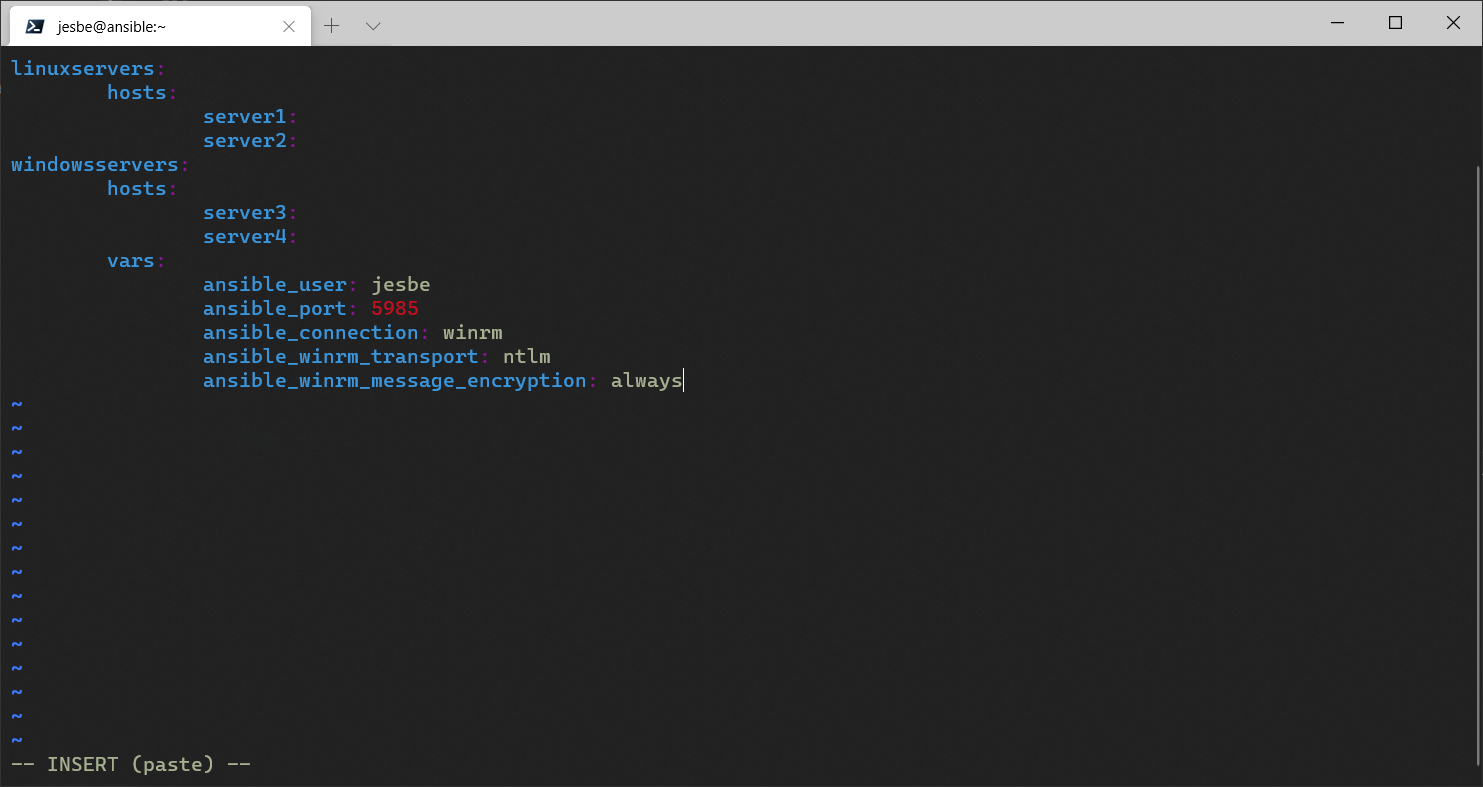
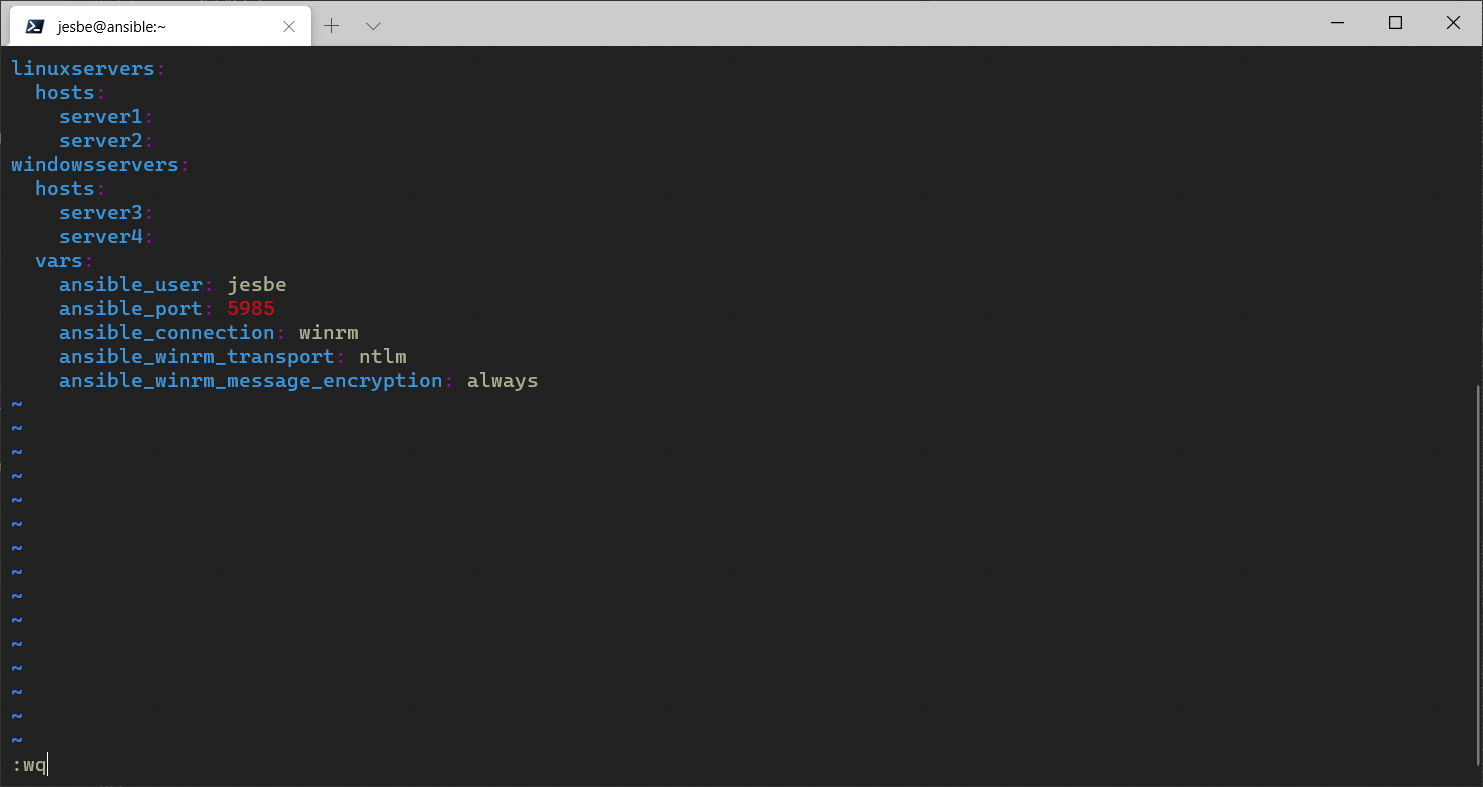
lab 2 updated

diff --git a/lab02/lab2.md b/lab02/lab2.md
@@ -133,14 +133,6 @@ Save the file (Ctrl + S)
 
 Click the Source control button in the left panel.
 
-Notice that there are three changes waiting
-
-* .gitignore
-* 01_linux.yml
-* settings.yml
-
-We need to commit the changes before .gitignore will ignore settings.yml
-
 ![Alt text](pics/016_code_playbook.png?raw=true "playbook in VSCode")
 
 Write a comment __"First Playbook__" and click "Ctrl + Enter" to commit the changes
@@ -472,19 +464,19 @@ We need to set an option in vi before pasteing the configuration
 ```ansible
 
 linuxservers:
-        hosts:
-                server1:
-                server2:
+  hosts:
+    server1:
+    server2:
 windowsservers:
-        hosts:
-                server3:
-                server4:
-        vars:
-                ansible_user: jesbe
-                ansible_port: 5985
-                ansible_connection: winrm
-                ansible_winrm_transport: ntlm
-                ansible_winrm_message_encryption: always
+  hosts:
+    server3:
+    server4:
+  vars:
+    ansible_user: jesbe
+    ansible_port: 5985
+    ansible_connection: winrm
+    ansible_winrm_transport: ntlm
+    ansible_winrm_message_encryption: always
 
 ```
 
